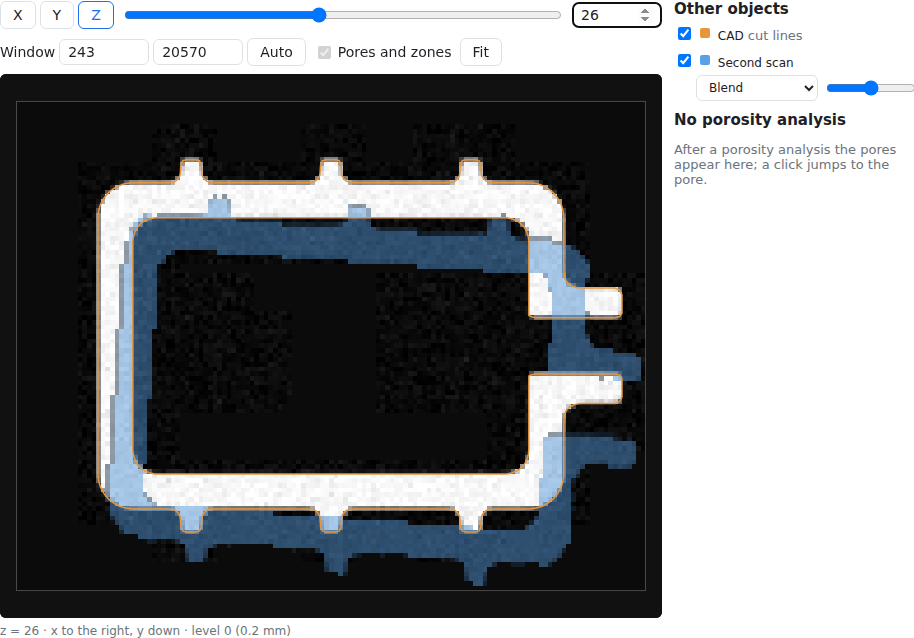
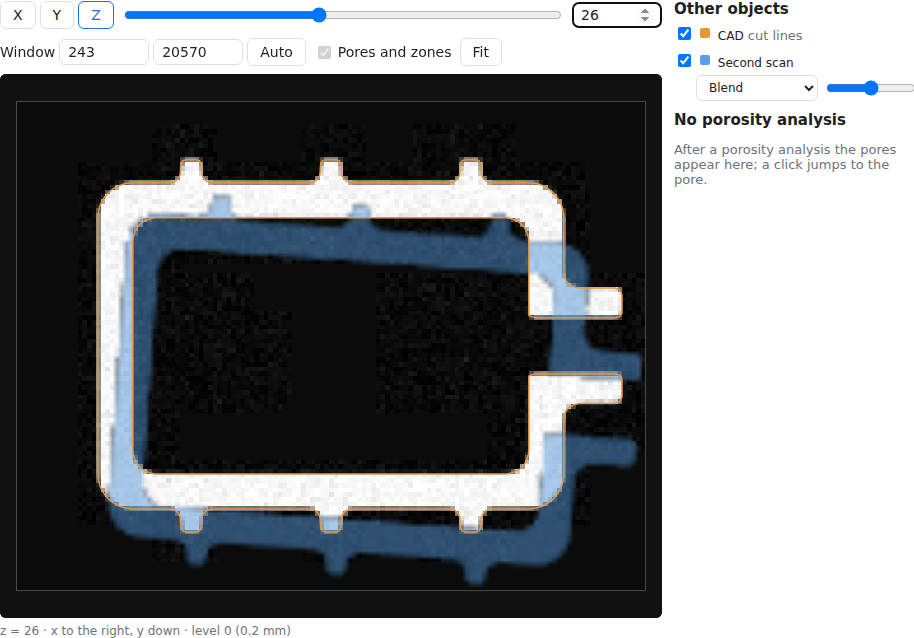
Interpolate other volumes in the slice view (#42)
A turned volume sampled at its nearest voxels showed a staircase. Other
volumes are now interpolated trilinearly (PlaneRequest::linear), their
material edge fades in around their threshold (X-Threshold on
api/object_tile) and their tiles are scaled smoothly.

Claude-Session: https://claude.ai/code/session_01XF1Hx52vJmsx1vCacE1R4o

diff --git a/resources/ui/viewer.js b/resources/ui/viewer.js
@@ -35,9 +35,12 @@ const PLANE_MATERIAL = 2;
 /// Pixels of a tile of another volume, RGBA: in 'blend' mode its material in the object's colour,
 /// brighter where it is denser, covering the slice by `opacity`; in 'checker' mode all its kept
 /// voxels in grey in every other square of a checkerboard, the slice in the squares between.
-function layerPixels(data, inside, size, color, window, mode, opacity, out) {
+/// The material edge fades in over a tenth of the window around `threshold`, so the
+/// interpolated values show the surface instead of a staircase of voxels.
+function layerPixels(data, inside, size, color, window, threshold, mode, opacity, out) {
   const [low, high] = window ?? [0, 1];
   const scale = 1 / (high - low);
+  const ramp = 0.1 * (high - low);
   for (let i = 0; i < data.length; i += 1) {
     const p = i * 4;
     const t = Math.min(Math.max((data[i] - low) * scale, 0), 1);
@@ -52,7 +55,8 @@ function layerPixels(data, inside, size, color, window, mode, opacity, out) {
       out[p] = shade * color[0];
       out[p + 1] = shade * color[1];
       out[p + 2] = shade * color[2];
-      out[p + 3] = inside[i] === PLANE_MATERIAL ? opacity * 255 : 0;
+      const cover = Math.min(Math.max((data[i] - threshold + ramp) / (2 * ramp), 0), 1);
+      out[p + 3] = inside[i] >= PLANE_VOID ? cover * opacity * 255 : 0;
     }
   }
   return out;
@@ -478,8 +482,10 @@ class SliceViewer {
         context.drawImage(this.renderTile(tile), x, y, w, h);
       }
     }
-    // Other volumes over it, at the slice the volume shows.
+    // Other volumes over it, at the slice the volume shows. Their values are interpolated, so
+    // they are drawn smoothly too: they rarely run along the voxels of the shown volume.
     const layers = this.shownLayers('volume');
+    context.imageSmoothingEnabled = true;
     for (const layer of layers) {
       for (const [tu, tv, x, y, w, h] of visible) {
         const slice = shown ?? this.index[this.axis] >> level;
@@ -490,6 +496,7 @@ class SliceViewer {
         context.drawImage(this.renderLayerTile(tile, layer), x, y, w, h);
       }
     }
+    context.imageSmoothingEnabled = false;
     context.restore();
     this.drawCuts(context, width, height);
     // Outline of the volume.
@@ -611,6 +618,7 @@ class SliceViewer {
         rendered: null, used: performance.now() };
       // The overlay of the volume, or what the tile hit of the other volume.
       tile[layer ? 'inside' : 'overlay'] = new Uint8Array(buffer, count * 4, count);
+      if (layer) tile.threshold = Number(response.headers.get('X-Threshold'));
       this.tiles.set(key, tile);
       if (layer && !layer.window) {
         // Its own window, from its first tiles.
@@ -675,8 +683,8 @@ class SliceViewer {
     }
     const context = tile.canvas.getContext('2d');
     const image = context.createImageData(TILE, TILE);
-    layerPixels(tile.data, tile.inside, TILE, layer.color, layer.window, layer.mode, layer.opacity,
-      image.data);
+    layerPixels(tile.data, tile.inside, TILE, layer.color, layer.window, tile.threshold, layer.mode,
+      layer.opacity, image.data);
     context.putImageData(image, 0, 0);
     tile.rendered = state;
     return tile.canvas;

diff --git a/src/slice.cpp b/src/slice.cpp
@@ -188,6 +188,7 @@ PlaneImage samplePlane(const Dataset& dataset, const PlaneRequest& request) {
   image.grey.assign(pixels, info.air_level);
   image.inside.assign(pixels, kPlaneOutside);
   const float threshold = info.threshold;
+  image.threshold = threshold;
   const LevelInfo& level = dataset.level(request.level);
   const double scale = std::ldexp(1.0, request.level);
   const std::int64_t brick_size = info.brick_size;
@@ -196,18 +197,11 @@ PlaneImage samplePlane(const Dataset& dataset, const PlaneRequest& request) {
     std::array<std::int64_t, 3> current{-1, -1, -1};
     Dataset::BrickPtr brick;
     std::optional<openvdb::FloatGrid::ConstAccessor> accessor;
-    for (std::int64_t x = 0; x < image.width; ++x) {
-      // mm to the level voxel: the level-0 voxel of continuous index c is floor(c + 0.5).
-      std::array<std::int64_t, 3> voxel{};
-      bool outside = false;
+    const auto probe = [&](const std::array<std::int64_t, 3>& voxel) -> std::optional<float> {
       for (std::size_t a = 0; a < 3; ++a) {
-        const double mm = request.origin_mm[a] + static_cast<double>(x) * request.du_mm[a] +
-                          static_cast<double>(y) * request.dv_mm[a];
-        voxel[a] = static_cast<std::int64_t>(std::floor((mm / info.voxel_size[a] + 0.5) / scale));
-        outside = outside || voxel[a] < 0 || voxel[a] >= level.dims[a];
-      }
-      if (outside) {
-        continue;
+        if (voxel[a] < 0 || voxel[a] >= level.dims[a]) {
+          return std::nullopt;
+        }
       }
       const std::array<std::int64_t, 3> index{voxel[0] / brick_size, voxel[1] / brick_size,
                                               voxel[2] / brick_size};
@@ -219,15 +213,62 @@ PlaneImage samplePlane(const Dataset& dataset, const PlaneRequest& request) {
           accessor.emplace(brick->getConstAccessor());
         }
       }
-      if (!accessor) {
+      float value = 0.0F;
+      if (accessor && accessor->probeValue(
+                          openvdb::Coord(static_cast<int>(voxel[0]), static_cast<int>(voxel[1]),
+                                         static_cast<int>(voxel[2])),
+                          value)) {
+        return value;
+      }
+      return std::nullopt;
+    };
+    for (std::int64_t x = 0; x < image.width; ++x) {
+      // mm to the continuous level index, whose whole numbers are voxel centres: level voxel j
+      // is centred on level-0 index (j + 0.5) * 2^level - 0.5.
+      std::array<double, 3> c{};
+      for (std::size_t a = 0; a < 3; ++a) {
+        const double mm = request.origin_mm[a] + static_cast<double>(x) * request.du_mm[a] +
+                          static_cast<double>(y) * request.dv_mm[a];
+        c[a] = (mm / info.voxel_size[a] + 0.5) / scale - 0.5;
+      }
+      const auto i = static_cast<std::size_t>(y * image.width + x);
+      if (!request.linear) {
+        const std::optional<float> value =
+            probe({static_cast<std::int64_t>(std::floor(c[0] + 0.5)),
+                   static_cast<std::int64_t>(std::floor(c[1] + 0.5)),
+                   static_cast<std::int64_t>(std::floor(c[2] + 0.5))});
+        if (value) {
+          image.grey[i] = *value;
+          image.inside[i] = *value >= threshold ? kPlaneMaterial : kPlaneVoid;
+        }
         continue;
       }
-      float value = 0.0F;
-      if (accessor->probeValue(
-              openvdb::Coord(static_cast<int>(voxel[0]), static_cast<int>(voxel[1]),
-                             static_cast<int>(voxel[2])),
-              value)) {
-        const auto i = static_cast<std::size_t>(y * image.width + x);
+      std::array<std::int64_t, 3> low{};
+      std::array<double, 3> t{};
+      for (std::size_t a = 0; a < 3; ++a) {
+        const double floor = std::floor(c[a]);
+        low[a] = static_cast<std::int64_t>(floor);
+        t[a] = c[a] - floor;
+      }
+      double sum = 0.0;
+      double active = 0.0;
+      for (unsigned corner = 0; corner < 8; ++corner) {
+        double weight = 1.0;
+        std::array<std::int64_t, 3> voxel = low;
+        for (std::size_t a = 0; a < 3; ++a) {
+          const bool high = ((corner >> a) & 1U) != 0;
+          voxel[a] += high ? 1 : 0;
+          weight *= high ? t[a] : 1.0 - t[a];
+        }
+        if (weight == 0.0) {
+          continue;
+        }
+        const std::optional<float> value = probe(voxel);
+        sum += weight * (value ? *value : info.air_level);
+        active += value ? weight : 0.0;
+      }
+      if (active > 0.0) {
+        const auto value = static_cast<float>(sum);
         image.grey[i] = value;
         image.inside[i] = value >= threshold ? kPlaneMaterial : kPlaneVoid;
       }

diff --git a/tests/test_slice.cpp b/tests/test_slice.cpp
@@ -243,6 +243,31 @@ TEST_F(SliceTest, PlanesMatchTheSlicesTheyLieIn) {
   EXPECT_THROW((void)samplePlane(*dataset_, PlaneRequest{.level = 9}), std::invalid_argument);
 }
 
+TEST_F(SliceTest, LinearPlanesInterpolateBetweenVoxels) {
+  const DatasetInfo& info = dataset_->info();
+  const auto& pitch = info.voxel_size;
+  const std::array<std::int64_t, 3> voxel{info.dims[0] / 2, info.dims[1] / 2, info.dims[2] / 2};
+  const auto value = [&](std::int64_t dx, std::int64_t dy) {
+    return *dataset_->sample(0, {voxel[0] + dx, voxel[1] + dy, voxel[2]});
+  };
+  // Pixels on voxel centres, between two voxels along x and in the middle of four.
+  PlaneRequest plane;
+  plane.linear = true;
+  plane.origin_mm = {static_cast<double>(voxel[0]) * pitch[0],
+                     static_cast<double>(voxel[1]) * pitch[1],
+                     static_cast<double>(voxel[2]) * pitch[2]};
+  plane.du_mm = {0.5 * pitch[0], 0.0, 0.0};
+  plane.dv_mm = {0.0, 0.5 * pitch[1], 0.0};
+  plane.width = 2;
+  plane.height = 2;
+  const PlaneImage image = samplePlane(*dataset_, plane);
+  EXPECT_FLOAT_EQ(image.grey[0], value(0, 0));
+  EXPECT_FLOAT_EQ(image.grey[1], 0.5F * (value(0, 0) + value(1, 0)));
+  EXPECT_FLOAT_EQ(image.grey[3], 0.25F * (value(0, 0) + value(1, 0) + value(0, 1) + value(1, 1)));
+  EXPECT_EQ(image.threshold, info.threshold);
+  EXPECT_EQ(image.inside[3], image.grey[3] >= info.threshold ? kPlaneMaterial : kPlaneVoid);
+}
+
 TEST_F(SliceTest, PlaneLevelMatchesThePixelSize) {
   const DatasetInfo& info = dataset_->info();
   const double voxel = info.voxel_size.minMm();

diff --git a/src/http_server.cpp b/src/http_server.cpp
@@ -398,7 +398,8 @@ struct HttpServer::Impl {
   /// Body: object o2 sampled at the pixels of that tile of the dataset of step 1
   /// (Studio::objectSliceTile): width * height float32 grey values, then one byte per pixel
   /// for what it hit: 2 the object's material, 1 a kept voxel below its threshold (air near the
-  /// part, a pore), 0 removed air or nothing. Headers X-Width and X-Height give the size.
+  /// part, a pore), 0 removed air or nothing. Headers X-Width and X-Height give the size,
+  /// X-Threshold the object's material threshold. Grey values are interpolated trilinearly.
   http::message_generator objectTile(const Request& request, std::string_view query) {
     const auto values = queryValues(query);
     const auto value = [&values](const std::string& name, std::int64_t fallback) {
@@ -424,9 +425,10 @@ struct HttpServer::Impl {
     std::memcpy(body.data(), image.grey.data(), image.grey.size() * sizeof(float));
     std::memcpy(body.data() + image.grey.size() * sizeof(float), image.inside.data(),
                 image.inside.size());
-    return binary(
-        request, std::move(body),
-        {{"X-Width", std::to_string(image.width)}, {"X-Height", std::to_string(image.height)}});
+    return binary(request, std::move(body),
+                  {{"X-Width", std::to_string(image.width)},
+                   {"X-Height", std::to_string(image.height)},
+                   {"X-Threshold", std::to_string(image.threshold)}});
   }
 
   /// GET /api/cut_lines?object=2&axis=2&index=100[&step=1]

diff --git a/src/studio.cpp b/src/studio.cpp
@@ -850,6 +850,7 @@ PlaneImage Studio::objectPlane(const Dataset& base, const RigidTransform& base_p
   plane.width = request.size[0];
   plane.height = request.size[1];
   plane.level = levelForPixel(other->info(), scale * std::min(pitch[ua], pitch[va]));
+  plane.linear = true;
   return samplePlane(*other, plane);
 }
 
@@ -987,10 +988,17 @@ Json Studio::drawObjects(const Dataset& base, const ArtifactRef& base_ref,
         std::ranges::sort(values);
         const float low = values[values.size() / 200];
         const float high = std::max(values[values.size() - 1 - values.size() / 200], low + 1.0F);
+        // The edge fades over a tenth of the window around the threshold, so a turned volume
+        // shows its interpolated surface instead of a staircase of whole voxels.
+        const float ramp = 0.1F * (high - low);
         for (std::size_t i = 0; i < plane.grey.size(); ++i) {
-          if (plane.inside[i] == kPlaneMaterial) {
+          if (plane.inside[i] != kPlaneOutside) {
+            const float cover =
+                std::clamp((plane.grey[i] - plane.threshold + ramp) / (2.0F * ramp), 0.0F, 1.0F);
             const float t = std::clamp((plane.grey[i] - low) / (high - low), 0.0F, 1.0F);
-            blend(i, 0.5F, 0.3F + 0.7F * t);
+            if (cover > 0.0F) {
+              blend(i, 0.5F * cover, 0.3F + 0.7F * t);
+            }
           }
         }
         blended = true;

diff --git a/include/voxelsieve/slice.hpp b/include/voxelsieve/slice.hpp
@@ -60,6 +60,9 @@ struct PlaneRequest {
   std::int64_t width = 256;
   std::int64_t height = 256;
   int level = 0;
+  /// Trilinear interpolation between the eight nearest voxels instead of the nearest one, for
+  /// planes that do not run along the voxels. Removed air counts as the dataset's air level.
+  bool linear = false;
 };
 
 inline constexpr std::uint8_t kPlaneOutside = 0;
@@ -69,6 +72,8 @@ inline constexpr std::uint8_t kPlaneMaterial = 2;
 struct PlaneImage {
   std::int64_t width = 0;
   std::int64_t height = 0;
+  /// The material threshold of the dataset.
+  float threshold = 0.0F;
   /// Grey values, x fastest; the air level where `inside` is 0.
   std::vector<float> grey;
   /// What the pixel hit: kPlaneMaterial for an active voxel at or above the threshold of the

diff --git a/docs/adr/0018-multiple-objects-and-alignment.md b/docs/adr/0018-multiple-objects-and-alignment.md
@@ -250,8 +250,10 @@ Poses are metadata. Viewing and processing several volumes reads each one throug
   keeps its tiles, levels and cache exactly as before, and a slice of a scan stays a slice of the
   scan however it was aligned. Planes along the global axes or of another object are not built.
 - `samplePlane` (`slice.hpp`) samples a dataset on any plane given in its object coordinates
-  (millimetres): one row per task, the nearest voxel at the level whose voxel matches the pixel,
-  the current brick and its accessor kept between neighbouring pixels. Each pixel says whether it
+  (millimetres): one row per task, at the level whose voxel matches the pixel, the current brick
+  and its accessor kept between neighbouring pixels. It takes the nearest voxel, or interpolates
+  trilinearly between the eight nearest (removed air counting as the air level); other volumes are
+  interpolated, since a turned volume sampled at its nearest voxels shows a staircase. Each pixel says whether it
   hit material (at or above the dataset's threshold), a kept voxel below it (air near the part,
   pores) or nothing. For another volume the studio maps the pixel centres of the base tile through
   `other pose⁻¹ ∘ base pose` (`Studio::objectSliceTile`, `GET /api/object_tile`), so the layer
@@ -263,7 +265,9 @@ Poses are metadata. Viewing and processing several volumes reads each one throug
   object in full.
 - The slice view lists the other objects. Volumes are blended in their object's colour with an
   opacity (only their material, shaded by their own grey window) or shown as a checkerboard of
-  32-pixel squares; meshes are drawn as their cut lines. Which objects show and how is saved with
+  32-pixel squares; meshes are drawn as their cut lines. The blended material fades in over a
+  tenth of its grey window around its threshold, and its tiles are scaled smoothly, so its edge
+  follows the interpolated surface. Which objects show and how is saved with
   the view. Without a step, the views show the data of the active object.
 - `view_slice` takes `objects` and draws the same into its PNG for MCP clients.
 - Still open from phase 3: ray casting several volumes jointly in the 3D view.

diff --git a/CHANGELOG.md b/CHANGELOG.md
@@ -2,6 +2,10 @@
 
 ## Unreleased
 
+- **Smooth other volumes in the slice view**: another volume shown in the slice is interpolated
+  between its voxels and its material edge fades in around its threshold, so a turned scan no
+  longer looks like a staircase of voxels.
+
 - **Other objects in the slice view** (ADR 0018, phase 3): the slice view shows the other objects
   of the project where they lie in the slice of the shown volume. Other volumes are blended over
   it in their object's colour with an adjustable opacity, or shown as a checkerboard; CAD models
